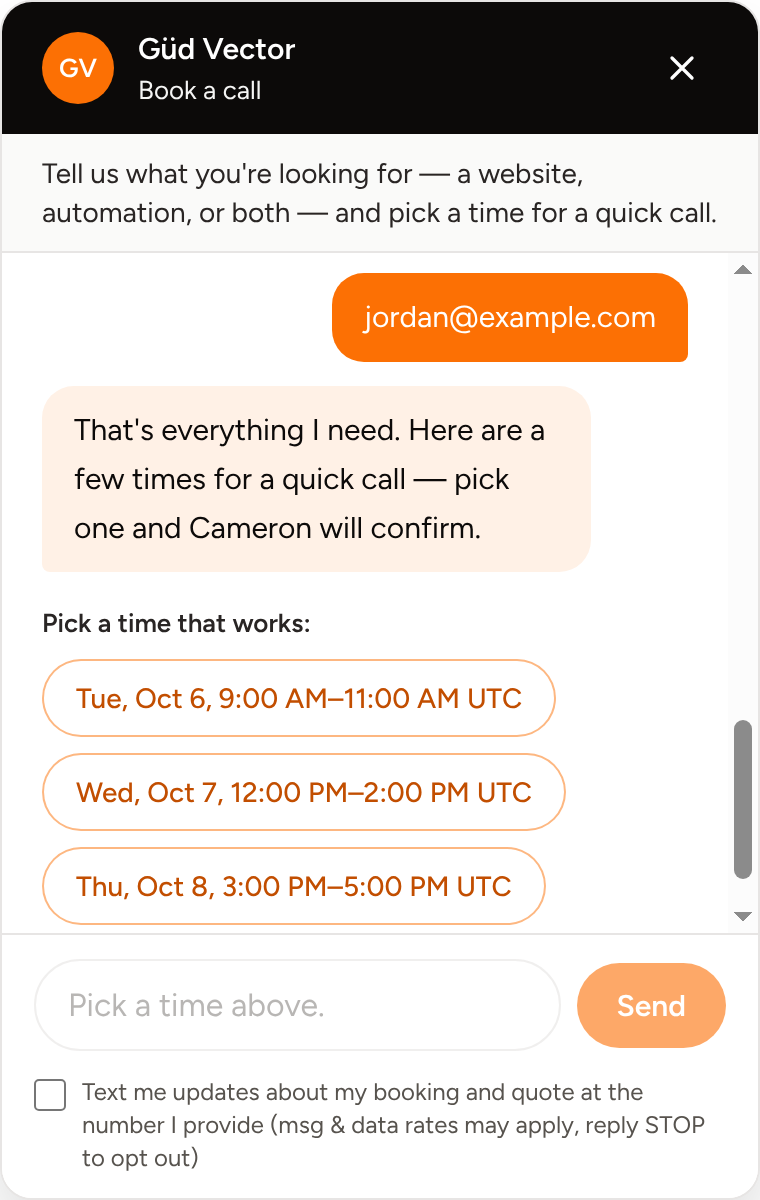
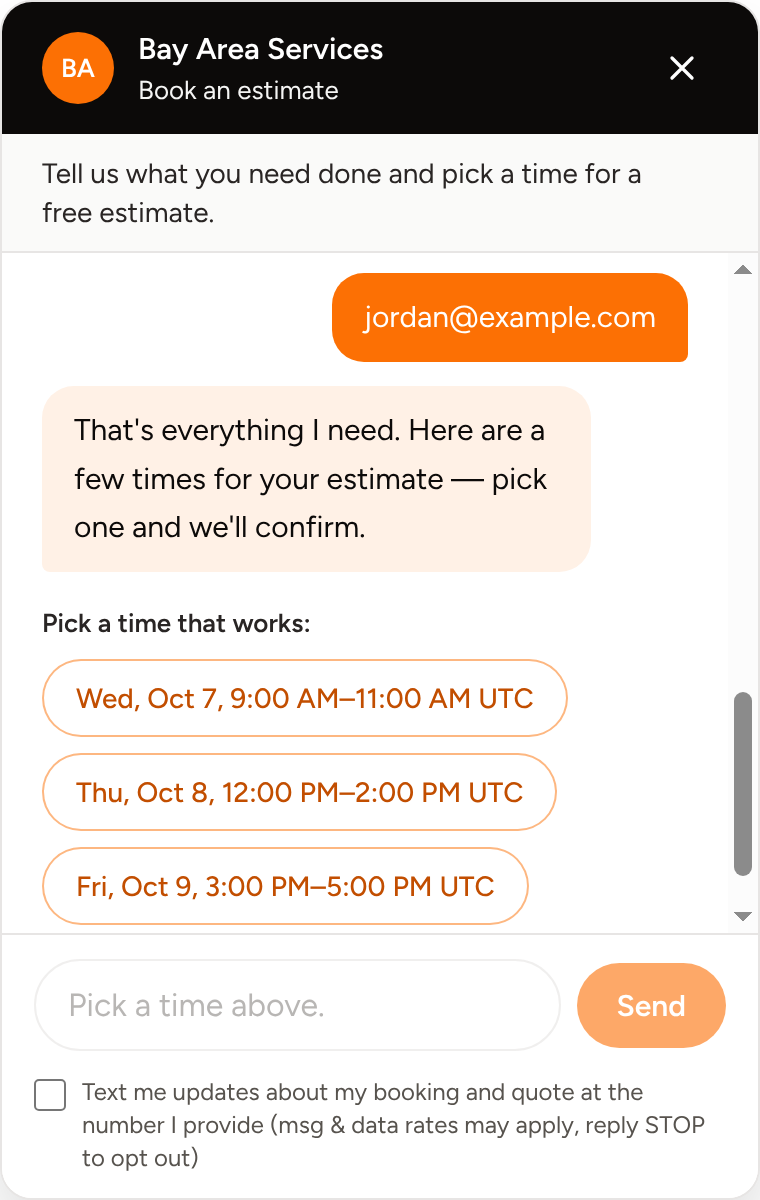
Gus phones (customer books on website, owner gets texts), Bay Area Services mock client and screenshots

diff --git a/src/components/gus-phone.tsx b/src/components/gus-phone.tsx
@@ -1,0 +1,186 @@
+import Image from "next/image";
+
+// Bay Area Services and Jordan Alvarez are placeholders, never a real client.
+
+type Card = { label: string; title: string; sub: string };
+type Bubble = { from: "gus" | "me"; text: string; card?: Card; slots?: boolean } | { time: string };
+
+const customerThread: Bubble[] = [
+  { from: "gus", text: "Hi, I'm Gus with Bay Area Services. What do you need done?" },
+  { from: "me", text: "My water heater is leaking. I'm in Walnut Creek." },
+  { from: "gus", text: "Sorry to hear it. Pick a time for a free estimate:", slots: true },
+  { from: "gus", text: "You're booked for Thu 9–11 AM. We'll text you a confirmation." },
+];
+
+const ownerThread: Bubble[] = [
+  { time: "Mon 8:14 AM" },
+  {
+    from: "gus",
+    text: "Estimate added to your calendar.",
+    card: { label: "Calendar", title: "Thu 9–11 AM · Jordan Alvarez", sub: "Water heater leak, Walnut Creek" },
+  },
+  { from: "gus", text: "Jordan's a repeat customer, so I linked it to the March valve job." },
+  { time: "Thu 11:02 AM" },
+  { from: "me", text: "Quote $1,650 for the 50 gal plus $150 haul-away" },
+  {
+    from: "gus",
+    text: "Here's the quote. Send it?",
+    card: { label: "Quote", title: "Jordan Alvarez", sub: "$1,800.00 · 2 items" },
+  },
+  { from: "me", text: "Send it" },
+  { from: "gus", text: "Quote sent to Jordan. I'll tell you when it's accepted." },
+];
+
+/** Blank iPhone frame; the screen inset was measured against the 658x1362 source. */
+function PhoneFrame({ label, children }: { label: string; children: React.ReactNode }) {
+  return (
+    <div role="img" aria-label={label} className="relative mx-auto aspect-[658/1362] w-full max-w-[300px]">
+      <Image
+        src="/brand/iphone-frame-v2.png"
+        alt=""
+        fill
+        sizes="300px"
+        className="pointer-events-none select-none"
+      />
+      <div
+        aria-hidden="true"
+        className="absolute flex flex-col overflow-hidden rounded-[22px] bg-paper"
+        style={{ left: "5.93%", right: "5.78%", top: "7.93%", bottom: "5.43%" }}
+      >
+        {children}
+      </div>
+    </div>
+  );
+}
+
+function Avatar({ size = "h-7 w-7 text-[12px]" }: { size?: string }) {
+  return (
+    <span className={`inline-flex shrink-0 items-center justify-center rounded-full bg-orange font-semibold text-white ${size}`}>
+      G
+    </span>
+  );
+}
+
+function Thread({ items }: { items: Bubble[] }) {
+  return (
+    <div className="flex min-h-0 flex-1 flex-col justify-end gap-1.5 overflow-hidden px-2.5 pb-2">
+      {items.map((m, i) =>
+        "time" in m ? (
+          <p key={i} className="pt-1 text-center text-[9.5px] text-muted">
+            {m.time}
+          </p>
+        ) : (
+          <div key={i} className={m.from === "me" ? "flex justify-end" : "flex justify-start"}>
+            <div
+              className={
+                m.from === "me"
+                  ? "max-w-[78%] rounded-[16px] rounded-br-[5px] bg-orange px-2.5 py-1.5 text-[11px] leading-snug text-white"
+                  : "max-w-[84%] rounded-[16px] rounded-bl-[5px] bg-[#e9e9eb] px-2.5 py-1.5 text-[11px] leading-snug text-ink"
+              }
+            >
+              {m.text}
+              {m.card && (
+                <span className="mt-1.5 block rounded-[10px] bg-paper px-2.5 py-2">
+                  <span className="block text-[8.5px] font-semibold uppercase tracking-wide text-orange-ink">
+                    {m.card.label}
+                  </span>
+                  <span className="mt-0.5 block text-[11px] font-semibold">{m.card.title}</span>
+                  <span className="block text-[10px] text-muted">{m.card.sub}</span>
+                </span>
+              )}
+              {m.slots && (
+                <span className="mt-1.5 flex flex-col gap-1">
+                  <span className="rounded-full bg-orange px-2.5 py-1 text-center text-[10px] font-medium text-white">
+                    Thu 9–11 AM
+                  </span>
+                  <span className="rounded-full border border-orange/50 bg-paper px-2.5 py-1 text-center text-[10px] font-medium text-orange-ink">
+                    Thu 1–3 PM
+                  </span>
+                  <span className="rounded-full border border-orange/50 bg-paper px-2.5 py-1 text-center text-[10px] font-medium text-orange-ink">
+                    Fri 9–11 AM
+                  </span>
+                </span>
+              )}
+            </div>
+          </div>
+        ),
+      )}
+    </div>
+  );
+}
+
+function CustomerScreen() {
+  return (
+    <>
+      <div className="flex items-center justify-center gap-1 bg-peach-2 px-3 py-1.5 text-[10px] text-muted">
+        <svg width="8" height="10" viewBox="0 0 10 12" fill="none">
+          <path d="M2 5V3.5a3 3 0 0 1 6 0V5" stroke="currentColor" strokeWidth="1.2" />
+          <rect x="1" y="5" width="8" height="6" rx="1.2" fill="currentColor" />
+        </svg>
+        Bay Area Services
+      </div>
+      <div className="flex items-center justify-between border-b border-line px-3 py-2">
+        <span className="text-[12px] font-bold tracking-tight text-ink">Bay Area Services</span>
+        <span className="rounded-full bg-ink px-2.5 py-1 text-[9px] font-semibold text-white">Book an estimate</span>
+      </div>
+      <div className="px-3 py-3">
+        <p className="text-[15px] font-semibold leading-tight tracking-tight text-ink">
+          Water heater trouble? We&apos;ll be right out.
+        </p>
+        <p className="mt-1 text-[10px] text-muted">Plumbing across the East Bay. Free estimates.</p>
+      </div>
+      <div className="flex items-center gap-2 border-y border-line bg-peach-2 px-3 py-2">
+        <Avatar />
+        <span className="leading-tight">
+          <span className="block text-[11px] font-semibold text-ink">Gus</span>
+          <span className="block text-[9.5px] text-muted">Bay Area Services · online</span>
+        </span>
+      </div>
+      <Thread items={customerThread} />
+      <div className="border-t border-line px-2.5 py-2">
+        <span className="block rounded-full border border-line px-3 py-1 text-[10.5px] text-muted">Message Gus</span>
+      </div>
+    </>
+  );
+}
+
+function OwnerScreen() {
+  return (
+    <>
+      <div className="flex flex-col items-center border-b border-line bg-peach-2 pb-2 pt-1">
+        <Avatar size="h-9 w-9 text-[15px]" />
+        <span className="mt-1 text-[11px] font-medium text-ink">Gus ›</span>
+      </div>
+      <Thread items={ownerThread} />
+      <div className="flex items-center gap-1.5 border-t border-line px-2.5 py-2">
+        <span className="flex-1 rounded-full border border-line px-3 py-1 text-[10.5px] text-muted">Text Message</span>
+        <span className="inline-flex h-6 w-6 items-center justify-center rounded-full bg-orange text-[12px] font-semibold text-white">
+          ↑
+        </span>
+      </div>
+    </>
+  );
+}
+
+export function GusPhones({ className = "" }: { className?: string }) {
+  return (
+    <div className={`mx-auto grid max-w-[760px] gap-14 sm:grid-cols-2 sm:gap-10 ${className}`}>
+      <div>
+        <PhoneFrame label="A customer books a free estimate with Gus in the chat on a service company's website.">
+          <CustomerScreen />
+        </PhoneFrame>
+        <p className="mt-5 text-center text-[15px] text-muted">
+          <span className="font-semibold text-ink">What your customer sees.</span> They book on your website.
+        </p>
+      </div>
+      <div>
+        <PhoneFrame label="Gus texts the owner that the estimate is on the calendar, then sends the quote once the owner OKs it.">
+          <OwnerScreen />
+        </PhoneFrame>
+        <p className="mt-5 text-center text-[15px] text-muted">
+          <span className="font-semibold text-ink">What you see.</span> Gus texts you. You OK the quote.
+        </p>
+      </div>
+    </div>
+  );
+}

diff --git a/src/lib/gvas.ts b/src/lib/gvas.ts
@@ -78,7 +78,7 @@ export const gvasEnv = {
 // The mock business is a placeholder client shop, so quote/portal screens read
 // as "your customer's view" — never Güd Vector's own pricing or a real client.
 const MOCK_BUSINESS: QuoteBusiness = {
-  displayName: "Your Business",
+  displayName: "Bay Area Services",
   siteUrl: "https://example.com",
 };
 
@@ -586,7 +586,7 @@ const mockIntake: Map<string, MockIntakeConversation> = (() => {
 })();
 
 const MOCK_INTAKE_OPENING =
-  "I can help you book a free discovery call with Güd Vector. Are you looking for a website, automation, or both?";
+  "I can help you book a free estimate with Bay Area Services. What do you need done?";
 
 function mockIntakeSlots(): IntakeSlot[] {
   const base = new Date();
@@ -649,24 +649,24 @@ function mockIntakeReply(
     conv.step = "slot";
     conv.state = "proposing_slots";
     conv.slots = mockIntakeSlots();
-    return "That's everything I need. Here are a few times for a quick call — pick one and Cameron will confirm.";
+    return "That's everything I need. Here are a few times for your estimate — pick one and we'll confirm.";
   };
 
   switch (conv.step) {
     case "need":
-      conv.details.push(`Looking for: ${message}`);
+      conv.details.push(`Job: ${message}`);
       conv.step = "business";
-      reply = "Got it. What's your business called, and what trade are you in?";
+      reply = "Got it. What city is the job in?";
       break;
     case "business":
-      conv.details.push(`Business: ${message}`);
+      conv.details.push(`City: ${message}`);
       conv.step = "tools";
-      reply = "Thanks. What do you use today to schedule jobs, send quotes, and get paid?";
+      reply = "Thanks. Anything we should know before we come out?";
       break;
     case "tools":
-      conv.details.push(`Current tools: ${message}`);
+      conv.details.push(`Notes: ${message}`);
       conv.step = "timeline";
-      reply = "Helpful. What's your timeline — when would you like this up and running?";
+      reply = "Helpful. How soon do you need it done?";
       break;
     case "timeline":
       conv.details.push(`Timeline: ${message}`);
@@ -692,17 +692,17 @@ function mockIntakeReply(
         : null;
       const picked = conv.slots?.find((s) => s.start === start);
       if (!picked) {
-        reply = "Please pick one of the times above so I can send it to Cameron.";
+        reply = "Please pick one of the times above so I can send it to the team.";
         break;
       }
       conv.step = "done";
       conv.state = "awaiting_owner";
       conv.slots = null;
-      reply = "Great — I've sent that time to Cameron for approval. You'll get a confirmation by email or text shortly.";
+      reply = "Great — I've sent that time to the team for approval. You'll get a confirmation by email or text shortly.";
       break;
     }
     default:
-      reply = "This request is with Cameron now — you'll hear back by email or text.";
+      reply = "This request is with the team now — you'll hear back by email or text.";
   }
 
   conv.summary = summary;

diff --git a/src/app/office/page.tsx b/src/app/office/page.tsx
@@ -5,6 +5,7 @@ import { FeatureList, Section, SectionHeading } from "@/components/section";
 import { Figure } from "@/components/screenshot";
 import { Faq } from "@/components/faq";
 import { CtaBand } from "@/components/cta-band";
+import { GusPhones } from "@/components/gus-phone";
 import { siteConfig } from "@/lib/site-config";
 
 export const metadata: Metadata = {
@@ -37,6 +38,11 @@ export default function OfficePage() {
         h1="Meet Gus, your automated office manager."
         lede="Gus runs your schedule, sends quotes, books estimates and handles billing. Nothing goes out until you OK it."
       />
+
+      <Section className="border-t border-line">
+        <SectionHeading title="Your customer books. You get a text." />
+        <GusPhones className="mt-12 sm:mt-16" />
+      </Section>
 
       <Section className="border-t border-line">
         <SectionHeading title="Less phone tag. More booked work." />

diff --git a/src/app/page.tsx b/src/app/page.tsx
@@ -1,6 +1,7 @@
 import { BookCallButton } from "@/components/cta-button";
 import { CtaBand } from "@/components/cta-band";
 import { Figure } from "@/components/screenshot";
+import { GusPhones } from "@/components/gus-phone";
 import { Container, Eyebrow, FeatureList, Section, SectionHeading } from "@/components/section";
 import { siteConfig } from "@/lib/site-config";
 
@@ -44,6 +45,11 @@ export default function HomePage() {
           <BookCallButton size="lg" />
         </div>
       </Container>
+
+      <Section className="border-t border-line">
+        <SectionHeading eyebrow={siteConfig.officeName} title="Meet Gus, your automated office manager." />
+        <GusPhones className="mt-12 sm:mt-16" />
+      </Section>
 
       <Section className="border-t border-line">
         <SectionHeading title="Three ways we help." />

diff --git a/src/components/screenshot.tsx b/src/components/screenshot.tsx
@@ -7,7 +7,7 @@ export const screenshots = {
     src: "/screenshots/chat.png",
     width: 760,
     height: 1200,
-    alt: "Güd Vector booking chat asking a visitor what they need and offering call times",
+    alt: "Bay Area Services booking chat offering a customer times for an estimate",
   },
   quote: {
     src: "/screenshots/quote.png",
